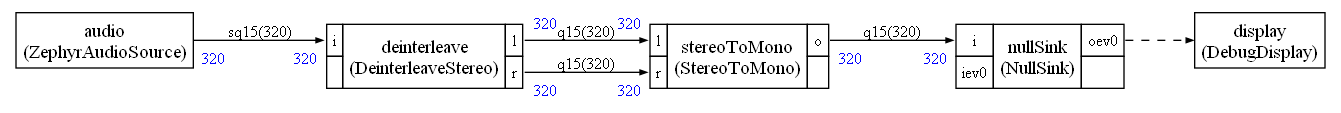
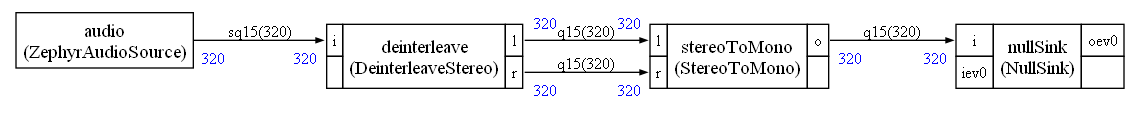
Changed I2S to correct issues. It looks like there is a bad interaction between the CMSIS vscode debugger and the code. From time to time, when loading from vscode I get a hardfault at first attempt to read from I2S.

diff --git a/src/stream.cpp b/src/stream.cpp
@@ -4,7 +4,7 @@
 #include "dsp/basic_math_functions.h"
 
 #include <zephyr/logging/log.h>
-LOG_MODULE_REGISTER(stream_module);
+LOG_MODULE_REGISTER(stream);
 
 #include "stream_types.hpp"
 #include "EventQueue.hpp"
@@ -51,14 +51,13 @@ static struct k_thread interrupt_thread;
 
 #define NB_MAX_EVENTS 20
 #define NB_MAX_BUFS 20
-#define STACK_SIZE 4096
 
 #define AUDIO_THREAD_PRIORITY 0
 #define NORMAL_PRIORITY 5
 
-static K_THREAD_STACK_DEFINE(interrupt_thread_stack, STACK_SIZE);
-static K_THREAD_STACK_DEFINE(event_thread_stack, STACK_SIZE);
-static K_THREAD_STACK_DEFINE(stream_thread_stack, STACK_SIZE);
+static K_THREAD_STACK_DEFINE(interrupt_thread_stack, 1024);
+static K_THREAD_STACK_DEFINE(event_thread_stack, 1024);
+static K_THREAD_STACK_DEFINE(stream_thread_stack, 4096);
 
 #define SRAM0_HEAP_SIZE 200000
 
@@ -178,17 +177,25 @@ int init_stream()
                                  NULL, NULL, NULL,
                                  NORMAL_PRIORITY, 0, K_NO_WAIT);
 
+    k_thread_name_set(&interrupt_thread, "interrupt_to_evt");
+
+
     cg_eventThread = k_thread_create(&event_thread, event_thread_stack,
                                  K_THREAD_STACK_SIZEOF(event_thread_stack),
                                  event_thread_function,
                                  NULL, NULL, NULL,
                                  NORMAL_PRIORITY, K_FP_REGS, K_NO_WAIT);
 
+    k_thread_name_set(&event_thread, "event_thread");
+
+
     tid_stream = k_thread_create(&stream_thread, stream_thread_stack,
                                  K_THREAD_STACK_SIZEOF(stream_thread_stack),
                                  stream_thread_function,
                                  NULL, NULL, NULL,
                                  NORMAL_PRIORITY, K_FP_REGS, K_NO_WAIT);
+
+    k_thread_name_set(&stream_thread, "stream_thread");
 
     return(0);
 }

diff --git a/src/stream/python/kws.py b/src/stream/python/kws.py
@@ -3,6 +3,7 @@ from cmsis_stream.cg.scheduler.graphviz import Style
 
 from nodes import *
 from appnodes import *
+import subprocess
 
     
 the_graph = Graph()
@@ -26,7 +27,7 @@ NN_FEATURES = 49
 MFCC_OVERLAP = NN_FEATURES-1
 
 # Use CMSIS VStream to connect to microphones
-src = VStreamAudioSource("audioSource",NB)
+src = ZephyrAudioSource("audioSource",NB)
 
 deinterleave = DeinterleaveStereo("deinterleave",Q15_STEREO,NB)
 to_f32 = Convert("to_f32",Q15_SCALAR,F32_SCALAR,NB)
@@ -73,10 +74,10 @@ scheduling = the_graph.computeSchedule(config=conf)
 print("Schedule length = %d" % scheduling.scheduleLength)
 print("Memory usage %d bytes" % scheduling.memory)
 
-scheduling.ccode("../scheduler",conf)
-scheduling.genJsonIdentification("../json",conf)
-scheduling.genJsonSelectors("../json",conf)
-scheduling.genJsonSelectorsInit("../json",conf)
+scheduling.ccode("src/stream/scheduler",conf)
+scheduling.genJsonIdentification("src/stream./json",conf)
+scheduling.genJsonSelectors("src/stream./json",conf)
+scheduling.genJsonSelectorsInit("src/stream/json",conf)
 
 def maybeFolder(x):
     if hasattr(x, "folder"):
@@ -84,7 +85,7 @@ def maybeFolder(x):
     # Standard ndoes from cmsis stream package have no folders
     return ""
 
-with open("../scheduler/AppNodes.hpp","w") as f:
+with open("src/stream/scheduler/AppNodes.hpp","w") as f:
     #print(scheduling.allNodes)
     s = set([(maybeFolder(x),x.typeName) for x in scheduling.allNodes])
     for folder,n in s:
@@ -108,5 +109,7 @@ class MyStyle(Style):
 
 myStyle = MyStyle()
 
-with open("../scheduler/graph.dot","w") as f:
+with open("src/stream/scheduler/graph.dot","w") as f:
     scheduling.graphviz(f)
+
+subprocess.run(["dot","-Tpng","src/stream/scheduler/graph.dot","-o","src/stream/scheduler/kws.png"])

diff --git a/src/stream/scheduler/scheduler.cpp b/src/stream/scheduler/scheduler.cpp
@@ -104,7 +104,6 @@ Internal ID identification for the nodes
 #define DEINTERLEAVE_INTERNAL_ID 1
 #define NULLSINK_INTERNAL_ID 2
 #define STEREOTOMONO_INTERNAL_ID 3
-#define DISPLAY_INTERNAL_ID 4
 
 
 
@@ -151,7 +150,6 @@ typedef struct {
     DeinterleaveStereo<sq15,320,q15_t,320,q15_t,320> *deinterleave;
     NullSink<q15_t,320> *nullSink;
     StereoToMono<q15_t,320,q15_t,320,q15_t,320> *stereoToMono;
-    DebugDisplay *display;
 } nodes_t;
 
 
@@ -232,17 +230,8 @@ int init_scheduler()
     identifiedNodes[STREAMSTEREOTOMONO_ID]=createStreamNode(*nodes.stereoToMono);
     nodes.stereoToMono->setID(STREAMSTEREOTOMONO_ID);
 
-    nodes.display = new (std::nothrow) DebugDisplay;
-    if (nodes.display==NULL)
-    {
-        return(CG_MEMORY_ALLOCATION_FAILURE);
-    }
-    identifiedNodes[STREAMDISPLAY_ID]=createStreamNode(*nodes.display);
-    nodes.display->setID(STREAMDISPLAY_ID);
-
 
 /* Subscribe nodes for the event system*/
-    nodes.nullSink->subscribe(0,*nodes.display,0);
 
     initError = CG_SUCCESS;
     initError = nodes.audio->init();
@@ -258,10 +247,6 @@ int init_scheduler()
         return(initError);
     
     initError = nodes.stereoToMono->init();
-    if (initError != CG_SUCCESS)
-        return(initError);
-    
-    initError = nodes.display->init();
     if (initError != CG_SUCCESS)
         return(initError);
     
@@ -306,10 +291,6 @@ void free_scheduler()
     if (nodes.stereoToMono!=NULL)
     {
         delete nodes.stereoToMono;
-    }
-    if (nodes.display!=NULL)
-    {
-        delete nodes.display;
     }
 }
 

diff --git a/src/stream/cpp/appnodes/KWSDisplay.hpp b/src/stream/cpp/appnodes/KWSDisplay.hpp
@@ -1,46 +1,16 @@
 #pragma once
 
-#include "EventQueue.hpp"
-#include "RTE_Components.h"
-#include "config.h"
-#include "m-profile/armv7m_cachel1.h"
-#include <arm_mve.h>
-#include <cstddef>
-#include <cstdint>
-#include <utility>
-#include <variant>
-
-#include CMSIS_device_header
-
-#include <atomic>
-
-#include "GenericNodes.hpp"
-#include "StreamNode.hpp"
-#include "arm_math_types.h"
-#include "cg_enums.h"
-#include "custom.hpp"
-
-extern "C"
-{
-#include "Driver_CDC200.h"
-#include "cmsis_os2.h"
-#include "cmsis_vstream.h"
-#include "config.h"
-#include "kws_img.h"
-}
-
-#include "nodes/VStreamVideoSink.hpp"
+#include "nodes/ZephyrLCD.hpp"
 
 using namespace arm_cmsis_stream;
 
-class KWSDisplay : public VStreamVideoSink
+class KWSDisplay : public ZephyrLCD
 {
     
     static constexpr uint32_t duration = 2;
 
   public:
-    KWSDisplay()
-        : VStreamVideoSink()
+    KWSDisplay(): ZephyrLCD()
     {
     }
 
@@ -48,14 +18,14 @@ class KWSDisplay : public VStreamVideoSink
     {
         drawFrame();
 
-        return VStreamVideoSink::init();
+        return ZephyrLCD::init();
     }
 
     virtual ~KWSDisplay() {};
 
     uint32_t getTime()
     {
-        return (1000*osKernelGetTickCount()) / osKernelGetTickFreq();
+        return k_cyc_to_ms_near32(CG_GET_TIME_STAMP());
     }
 
     void drawImage(uint16_t *renderingFrame, const uint8_t *img, const uint32_t w, const uint32_t h)

diff --git a/src/stream/cpp/nodes/ZephyrAudioSource.hpp b/src/stream/cpp/nodes/ZephyrAudioSource.hpp
@@ -83,6 +83,8 @@ class ZephyrAudioSource<sq15, outputSamples> : public GenericSource<sq15, output
 			return (CG_INIT_FAILURE);
 		}
 
+		
+
 		return (CG_SUCCESS);
 	}
 
@@ -99,6 +101,7 @@ class ZephyrAudioSource<sq15, outputSamples> : public GenericSource<sq15, output
 	{
 		size_t size;
 		if (!started_) {
+			LOG_DBG("Starting RX");
 			int rc = i2s_trigger(i2s_mic, I2S_DIR_RX, I2S_TRIGGER_START);
 
 			if (rc < 0) {
@@ -109,15 +112,25 @@ class ZephyrAudioSource<sq15, outputSamples> : public GenericSource<sq15, output
 		}
 
 		sq15 *out = this->getWriteBuffer();
+		LOG_DBG("Setting outputbuffer to zero");
 		memset(out, 0, outputSamples * sizeof(sq15));
-		int err = i2s_buf_read(i2s_mic, out, &size);
+		LOG_DBG("Trying to read I2S data");
+		int err=0;
+		void *buffer = NULL;
+		//err = i2s_buf_read(i2s_mic, out, &size);
+		err = i2s_read(i2s_mic, &buffer, &size);
+
+		
 
 		if (err != 0) {
 			LOG_ERR("i2s_buf_read failed: %d", err);
+			k_mem_slab_free(&mem_slab, buffer);
             stop_audio();
 			return (CG_BUFFER_UNDERFLOW);
 		}
 
+		memcpy(out, buffer, size);
+		k_mem_slab_free(&mem_slab, buffer);
 		return (CG_SUCCESS);
 	};
 

diff --git a/src/stream/cpp/stream_types.hpp b/src/stream/cpp/stream_types.hpp
@@ -124,7 +124,7 @@ class ZephyrLock
 #include "rtos_events.hpp"
 
 // Because memory optimization is enabled
-#define CG_BEFORE_BUFFER __ALIGNED(16)
+#define CG_BEFORE_BUFFER __aligned(16)
 
 #define CG_BEFORE_SCHEDULE \
   uint32_t errorFlags = 0;
@@ -139,7 +139,8 @@ class ZephyrLock
         cgStaticError = CG_BUFFER_OVERFLOW;                                                                                \
         goto errorHandling;                                                                                                \
     }                                                                                                                      \
-}                                                                                                                          
+    LOG_DBG("Node %d executing\n", ID);                                                                                     \
+}                                                                                                                        
 
 
 #define CG_TIME_STAMP_TYPE uint32_t

diff --git a/src/stream/python/debug.py b/src/stream/python/debug.py
@@ -33,7 +33,7 @@ deinterleave = DeinterleaveStereo("deinterleave",Q15_STEREO,NB)
 convert = StereoToMono("stereoToMono",Q15_SCALAR,NB)
 
 nullSink = NullSink("nullSink",Q15_SCALAR,NB)
-lcd = DebugDisplay("display")
+#lcd = DebugDisplay("display")
 
 the_graph.connect(src.o,deinterleave.i)
 the_graph.connect(deinterleave.l,convert.l)
@@ -41,7 +41,7 @@ the_graph.connect(deinterleave.r,convert.r)
 the_graph.connect(convert.o,nullSink.i)
 
 #the_graph.connect(src["oev0"],nullSink["iev0"])
-the_graph.connect(nullSink["oev0"],lcd["iev0"])
+#the_graph.connect(nullSink["oev0"],lcd["iev0"])
 
 #
 conf = Configuration()

diff --git a/src/stream/scheduler/scheduler.h b/src/stream/scheduler/scheduler.h
@@ -17,12 +17,11 @@ extern "C"
 
 
 /* Node identifiers */
-#define STREAMNB_IDENTIFIED_NODES 5
+#define STREAMNB_IDENTIFIED_NODES 4
 #define STREAMAUDIO_ID 0
 #define STREAMDEINTERLEAVE_ID 1
 #define STREAMNULLSINK_ID 2
 #define STREAMSTEREOTOMONO_ID 3
-#define STREAMDISPLAY_ID 4
 
 
 extern CStreamNode* get_scheduler_node(int32_t nodeID);

diff --git a/src/stream/cpp/nodes/TFLite.hpp b/src/stream/cpp/nodes/TFLite.hpp
@@ -1,12 +1,11 @@
 #pragma once
 
+#include "custom.hpp"
 #include "GenericNodes.hpp"
 #include "StreamNode.hpp"
 #include "arm_math_types.h"
 #include "cg_enums.h"
 #include "config.h"
-#include "custom.hpp"
-#include "node_globals.hpp"
 
 #include "tensorflow/lite/c/common.h"
 #include "tensorflow/lite/micro/kernels/micro_ops.h"

diff --git a/src/stream/python/appnodes/KWSDisplay.py b/src/stream/python/appnodes/KWSDisplay.py
@@ -2,9 +2,9 @@ from cmsis_stream.cg.scheduler import GenericSink
 
 from nodes import *
 
-class KWSDisplay(VStreamVideoSink):
+class KWSDisplay(ZephyrLCD):
     def __init__(self,name):
-        VStreamVideoSink.__init__(self,name)
+        ZephyrLCD.__init__(self,name)
         self.addEventInput(1)
 
 

diff --git a/src/stream/scheduler/AppNodes.hpp b/src/stream/scheduler/AppNodes.hpp
@@ -1,5 +1,4 @@
-#include "appnodes/DebugDisplay.hpp"
-#include "nodes/NullSink.hpp"
-#include "nodes/DeinterleaveStereo.hpp"
 #include "nodes/ZephyrAudioSource.hpp"
 #include "nodes/StereoToMono.hpp"
+#include "nodes/NullSink.hpp"
+#include "nodes/DeinterleaveStereo.hpp"

diff --git a/src/stream/cpp/nodes/ZephyrLCD.hpp b/src/stream/cpp/nodes/ZephyrLCD.hpp
@@ -10,6 +10,8 @@ extern "C"
    #include "dbuf_display/display.h"
 }
 
+#define DISPLAY_IMAGE_SIZE (DISPLAY_FRAME_WIDTH * DISPLAY_FRAME_HEIGHT * sizeof(uint16_t))
+
 using namespace arm_cmsis_stream;
 
 class ZephyrLCD : public StreamNode
